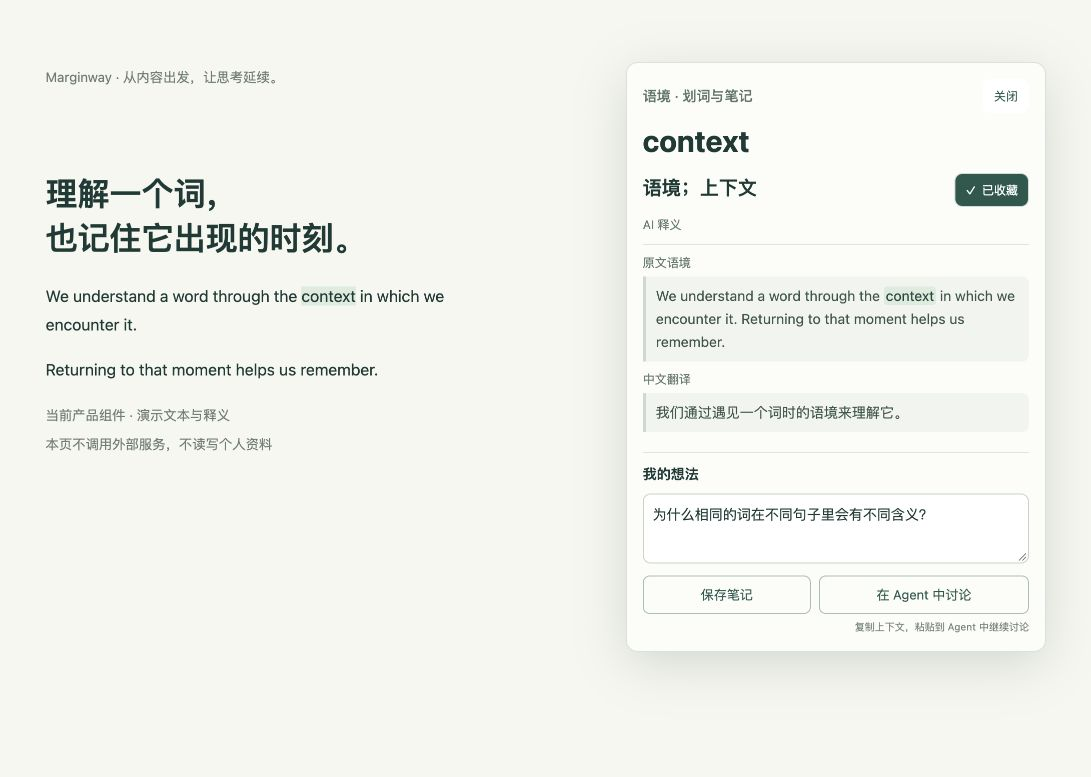
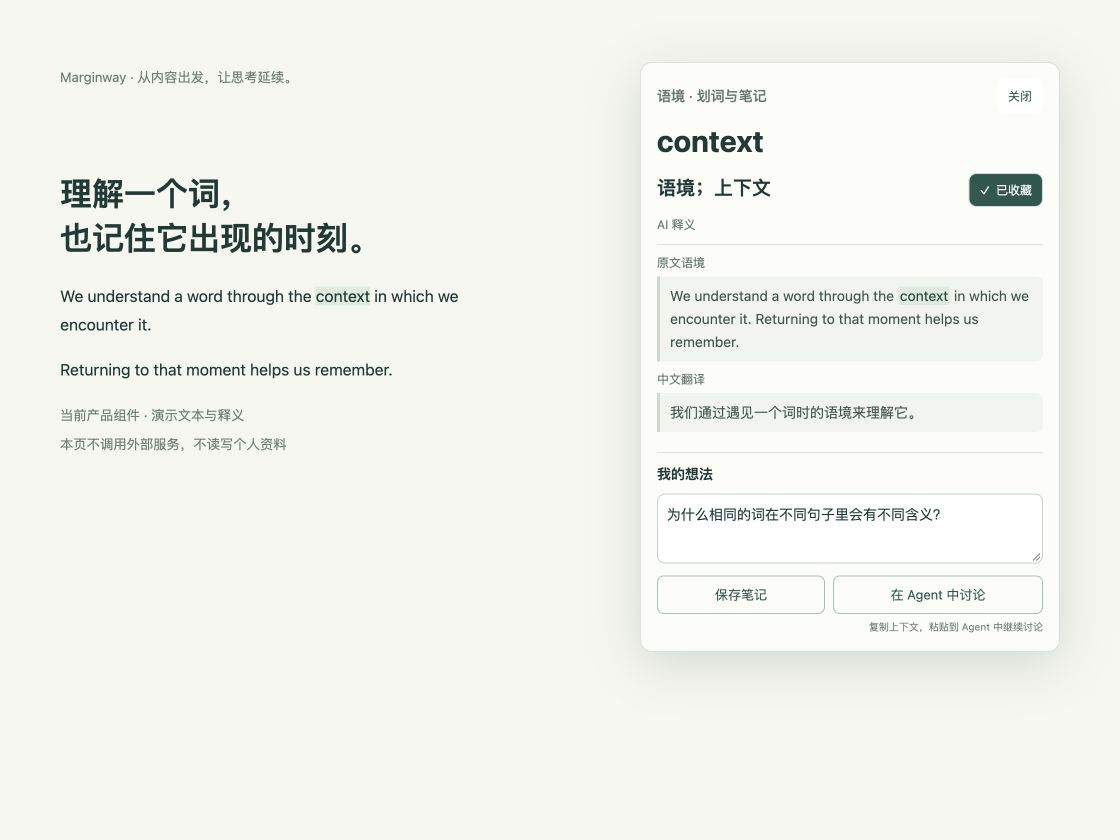
docs: standardize demos and focus README on product (#20)

diff --git a/README.md b/README.md
@@ -2,69 +2,36 @@
 
 **从内容出发，让思考延续。**
 
-Marginway 是一个在网页和 YouTube 视频旁使用的学习工具：理解一个词、记下一个想法，同时留下原文和位置，之后能回去复习，也能带着上下文与 Agent 继续讨论。
+在网页和 YouTube 视频旁理解一个词、记下一个想法，留下原文与位置，再带着上下文回顾或与 Agent 继续讨论。
 
-收藏了很多内容，却忘记“为什么收藏、当时看到哪里”？Marginway 把学习记录留在它产生的**语境**里，让词汇和笔记有据可循。
+[开始使用](docs/installation.md) · [与 Agent 一起学习](skills/SKILL.md)
 
-[开始使用](docs/installation.md) · [与 Agent 一起学习](skills/SKILL.md) · [开发与贡献](CONTRIBUTING.md)
+## 在原文旁，留下理解
 
-![当前语境卡片：词义、原文、中文翻译、我的想法，以及在 Agent 中讨论](docs/assets/product-card.png)
+阅读网页，或观看带双语字幕的视频时，选中一个词，就能查看释义、收藏词汇、写下想法。句子和时间点一起保留，之后还找得到当时的语境。
 
-*当前产品组件的实际渲染，使用演示文本与本地 fixture；不是概念设计，不含私人笔记或服务密钥。复现方式见[工程说明](docs/engineering.md#产品截图)。*
+<img src="docs/assets/product-card.png" width="960" alt="语境卡片：查看 context 的释义与原句、收藏词汇、记录想法，并在 Agent 中讨论">
 
-## 从一次遇见，到下一次理解
+## 回到材料，继续学习
 
-1. **阅读或看视频。** 在网页选词，或在视频下方、侧栏的双语字幕中停下来理解一句话。
-2. **留下词汇和想法。** 语境卡片展示释义、原文与翻译；收藏选中的词，也可以记下自己的问题。
-3. **回到同一份材料。** 资料库按资源组织词汇语境和笔记，可以分类、搜索、编辑；误删可从回收站恢复。学习统计是首页，热力图记录学习足迹。
-4. **再看一遍，再想一步。** 单词复习带着原句；点击时间点或原文链接回溯。「在 Agent 中讨论」将当前上下文组成 Prompt，粘贴到你使用的 Agent 中继续多轮思考。
+同一份资源下的词汇和笔记聚在一起。用分类和搜索找到材料，回到原文或视频时间点；通过词汇复习和学习热力图回看自己的积累。
 
-![当前资料库：同一资源下的笔记和原文回溯入口，数据为演示内容](docs/assets/product-library.png)
+<img src="docs/assets/product-library.png" width="960" alt="资料库：同一资源中的笔记、词汇及返回原文入口">
 
-## 三个原则
+## 把一个问题，继续想下去
 
-**在语境中学习。** 不只留下一个孤立释义：词条关联出现时的句子、来源网址和视频时间。复习时可以回到当初产生疑问的位置。
+点击卡片中的「在 Agent 中讨论」，把原文、语境和自己的问题带入常用的 Agent。支持本机操作的 Agent 还能通过配套 Skill 读取资料、将讨论结论写回笔记，并明确标注 Agent 身份。
 
-**资料留在自己手里。** Local-first 指学习资料存于本机 SQLite，可以导出；没有开发者托管后端、账号系统或遥测。它不表示所有功能离线：字幕获取使用 Supadata，翻译使用 DeepSeek，由你配置自己的密钥并按供应商规则付费。
+**阅读 / 看视频 → 划词与想法 → 保留语境 → 资料库 → 回顾原文 → 延续讨论**
 
-**把思考交给你自己的 Agent。** Agent-native 指浏览器与 CLI 访问同一本地资料库，而非内置一个替你决策的聊天机器人。Agent 可读取语境、查询记录、带身份写回结论；多轮讨论发生在你选择的 Agent 中。界面与 CLI 都保留原文关联和修订历史。
+<sub>以上为当前产品组件的实际截图，使用合成演示资料；[截图规范与复现](docs/engineering.md#产品截图)。</sub>
 
-## 开始使用
+## 开始与了解
 
-当前为早期开发版，**桌面 Chrome + 本机运行组件**，尚未提供 Chrome Web Store 或免 Node 安装器。当前仓库访问需授权；源码采用 [MIT 许可](LICENSE)，可审阅、修改和自行构建。
+当前为桌面 Chrome 早期开发版，需从源码安装并配置自己的服务密钥；仓库访问需授权。学习资料存于本机，字幕与翻译会调用第三方服务。手机 Chrome 暂不支持。
 
-[按步骤安装与配置 →](docs/installation.md)
+[安装与配置](docs/installation.md) · [Agent Skill](skills/SKILL.md) · [隐私与数据](PRIVACY.md)
 
-可以把安装说明交给 Agent：让它检查环境、构建项目、安装到你明确选择的长期目录并验证；你完成 Chrome 的目录选择和密钥配置。当前仍需 Node.js 22.23.2、pnpm 11.22.0，不要求你理解内部桥接协议。
+[开发与贡献](CONTRIBUTING.md) · [工程架构与测试](docs/engineering.md) · [版本与发布](docs/releases.md) · [安装体验设计](docs/runtime-installation-design.md)
 
-安装后，打开一个有原生字幕的 YouTube 视频或普通网页，划词保存第一条记录，再到资料库回看。手机 Chrome 暂不支持；macOS 已实测，Windows/Linux 的脚本已过 CI，真实浏览器安装仍需平台验证。
-
-## 与 Agent 延续讨论
-
-卡片中的「在 Agent 中讨论」会复制当前原文、来源和问题，供你粘贴到其他 Agent。若 Agent 可以操作本机，它还可以使用 [配套 Skill](skills/SKILL.md)：
-
-```sh
-learning capabilities
-learning resources.list
-```
-
-读到当前 anchorId 后，用 `notes.append` 追加结论；修改和删除使用明确的记录 ID、修订号和请求 ID。写回标为 Agent，保留客户端及模型自报身份；不会冒充你亲自写的笔记。没有本机 CLI 的 Agent 仍可通过复制的 Prompt 讨论，但不能直接写回本机资料库。
-
-## 数据如何流动
-
-```mermaid
-flowchart LR
-  E[Chrome 扩展] <-->|Native Messaging| R[本机 Runtime]
-  R <--> D[(SQLite 学习资料库)]
-  A[CLI / Agent] <--> D
-```
-
-API Key 留在当前 Chrome profile 的扩展配置中，不写入学习数据库、Prompt 或备份。获取字幕时向 Supadata 发送视频网址，翻译时向 DeepSeek 发送所需原文语境；复制到其他 Agent 的内容由你决定是否粘贴。完整边界见 [隐私说明](PRIVACY.md)。
-
-## 开发与信任
-
-[源码构建与安装](docs/installation.md) · [工程结构与测试](docs/engineering.md) · [版本与发布](docs/releases.md) · [贡献流程](CONTRIBUTING.md)
-
-[安全说明](SECURITY.md) · [第三方许可](THIRD_PARTY_NOTICES.md) · [许可证](LICENSE)
-
-未来安装体验的[目标架构与机器接口](docs/runtime-installation-design.md)已单独记录，文中的设计命令不属于当前发行能力。
+[安全说明](SECURITY.md) · [第三方许可](THIRD_PARTY_NOTICES.md) · [MIT 许可证](LICENSE)

diff --git a/.agents/notes/implemented/2026-09-20-product-entry.md b/.agents/notes/implemented/2026-09-20-product-entry.md
@@ -18,6 +18,10 @@ Status: implemented
 
 参考 Logseq 的价值优先、Karakeep 的定义后紧接实际截图与快速文档入口、Browser Use 的场景 Demo 与 Agent 文档分层；只借信息层次，不复制视觉与措辞。
 
+## 演示规范收敛
+
+README 以产品场景与两张演示图为主体；安装、CLI 协议、数据流和工程细节只链接各自文档。图片统一 1120×840 视口和 960 显示宽度，避免不同浏览器窗口尺寸造成视觉跳动。具体制作规则归工程文档，不在 README 重复维护。
+
 ## 怎么验证
 
 在浏览器打开演示卡片和资料库，检查对应内容与截图；核心产品测试仍负责真实保存/恢复等行为。完整 CI 校验 TypeScript、既有回归、打包和文档预算；截图不含密钥、个人记录或浏览器 chrome。研究项的完成仅指方案，不代表未来安装器已发布。
